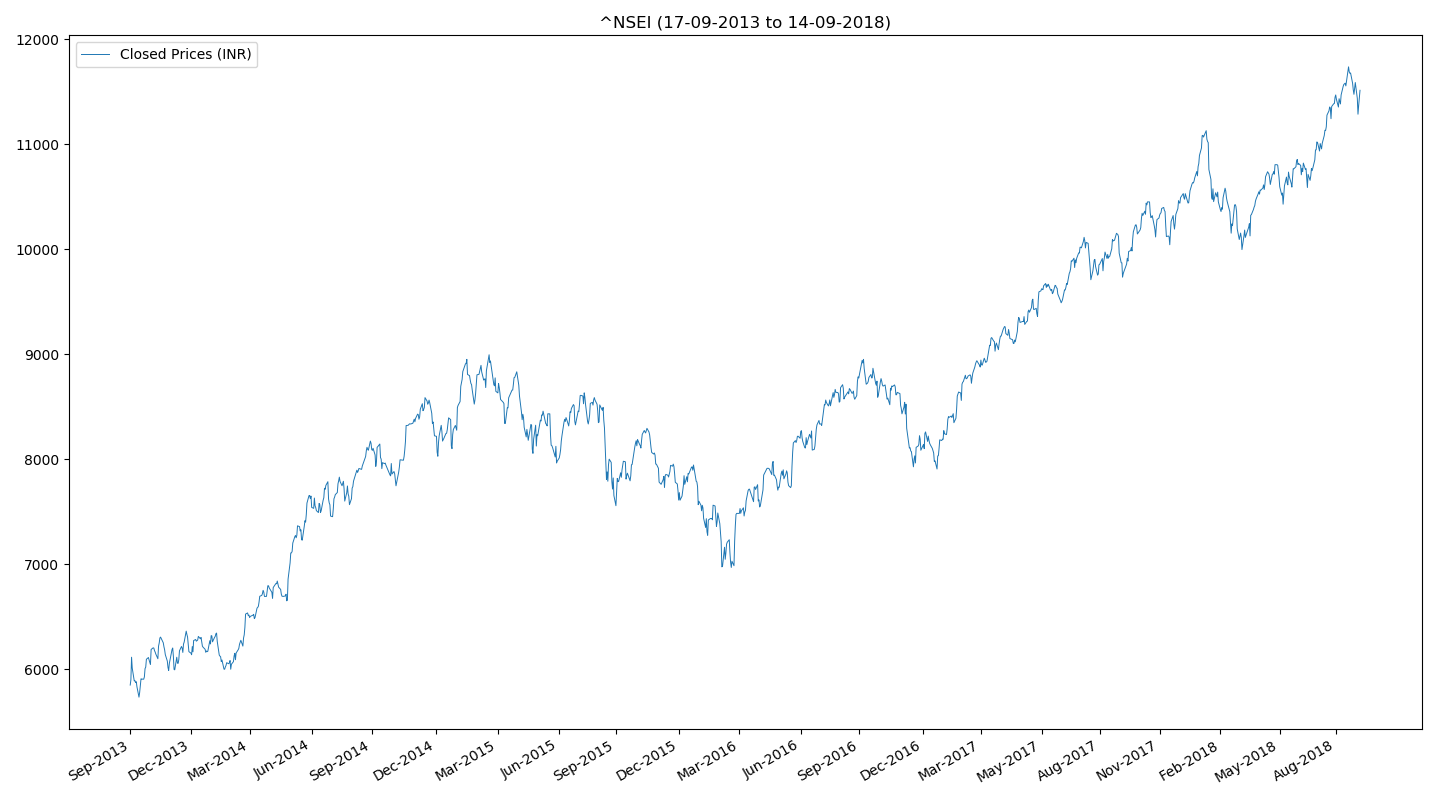
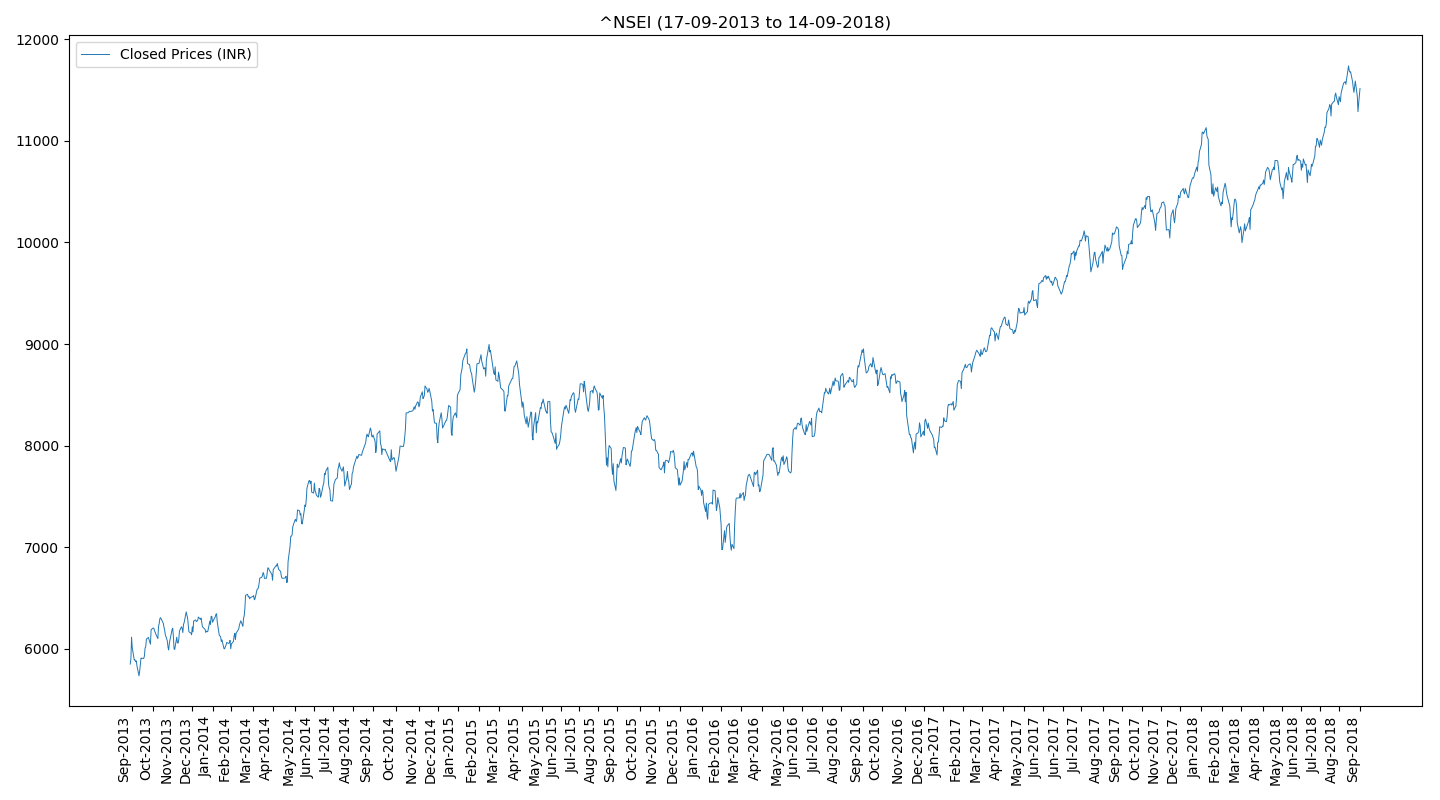
TimeSeries
Adding support to plot variable range time series and refactored code and module.

diff --git a/findata/Historical.py b/findata/Historical.py
@@ -148,28 +148,7 @@ class Historical:
         df.set_index('Date', drop=True, inplace=True)
         return df
     
-    def line_plot_time_series(self, scrip_code, df):
-        figure, axis = plt.subplots(figsize=(16, 8))
-        df.plot(
-            kind='line',
-            y='Adjusted Close',
-            label='Closed Prices (INR)',
-            lineWidth=0.7,
-            ax=axis
-        )
-        axis.xaxis.set_major_formatter(mdates.DateFormatter('%b-%Y'))
-        axis.set_xticks(df.index[::60])
-        start_date = DateTime.date_time_to_formatted_date(df.index[0])
-        end_date = DateTime.date_time_to_formatted_date(df.index[-1])
-        plt.title(scrip_code + ' (' + start_date + ' to ' + end_date + ')')
-        plt.xlabel('')
-        plt.legend()
-        plt.tight_layout()
-        plt.show()
-        plt.savefig('timeseries.png')
-    
-    def candle_plot_time_series(self, scrip_code, df, recent=0):
-        Validator.validate_attribute(recent, int, True)
+    def __plot_params(self, df, recent):
         if recent is 0:
             count = df.index.size
             steps = 20
@@ -184,6 +163,50 @@ class Historical:
                 steps = 5
             else:
                 steps = 1
+        return count, steps, dfmt
+    
+    def __show_and_save(self, plt, show, save, fname):
+        if show:
+            plt.show()
+        if not show and save:
+            plt.savefig(fname)
+            plt.clf()
+            plt.close()
+        if show and save:
+            plt.savefig(fname)
+        if not show and not save:
+            plt.clf()
+            plt.close()
+    
+    def line_plot_time_series(
+            self, scrip_code, df, recent=0, show=True, save=True
+            ):
+        count, steps, dfmt = self.__plot_params(df, recent)
+        figure, axis = plt.subplots(figsize=(16, 8))
+        dohlc = df.tail(count).copy()
+        dohlc.plot(
+            kind='line',
+            y='Adjusted Close',
+            label='Closed Prices (INR)',
+            lineWidth=0.7,
+            ax=axis
+        )
+        axis.xaxis.set_major_formatter(mdates.DateFormatter(dfmt))
+        axis.set_xticks(dohlc.index[::-steps])
+        plt.setp(plt.gca().get_xticklabels(), rotation=90)
+        start_date = DateTime.date_time_to_formatted_date(dohlc.index[0])
+        end_date = DateTime.date_time_to_formatted_date(dohlc.index[-1])
+        plt.title(scrip_code + ' (' + start_date + ' to ' + end_date + ')')
+        plt.xlabel('')
+        plt.legend()
+        plt.tight_layout()
+        self.__show_and_save(plt, show, save, 'timeseries.png')
+    
+    def candle_plot_time_series(
+            self, scrip_code, df, recent=0, show=True, save=True
+            ):
+        Validator.validate_attribute(recent, int, True)
+        count, steps, dfmt = self.__plot_params(df, recent)
         figure, axis = plt.subplots(figsize=(16, 8))
         # create a copy of the DataFrame to operate on
         dohlc = df.tail(count).copy()
@@ -214,8 +237,8 @@ class Historical:
         end_date = str_dates.iloc[-1]
         plt.title(scrip_code + ' (' + start_date + ' to ' + end_date + ')')
         plt.tight_layout()
-        plt.show()
-        plt.savefig('candlesticks.png')
+        self.__show_and_save(plt, show, save, 'candlesticks.png')
+        
     
     def get(self, symbol=None, from_date=None, to_date=None):
         Validator.validate_attribute(symbol, str, True)

diff --git a/findata/__init__.py b/findata/__init__.py
@@ -1,0 +1,3 @@
+# -*- coding: utf-8 -*-
+
+from .Historical import Historical

diff --git a/__init__.py b/__init__.py
@@ -1,0 +1,1 @@
+# -*- coding: utf-8 -*-
